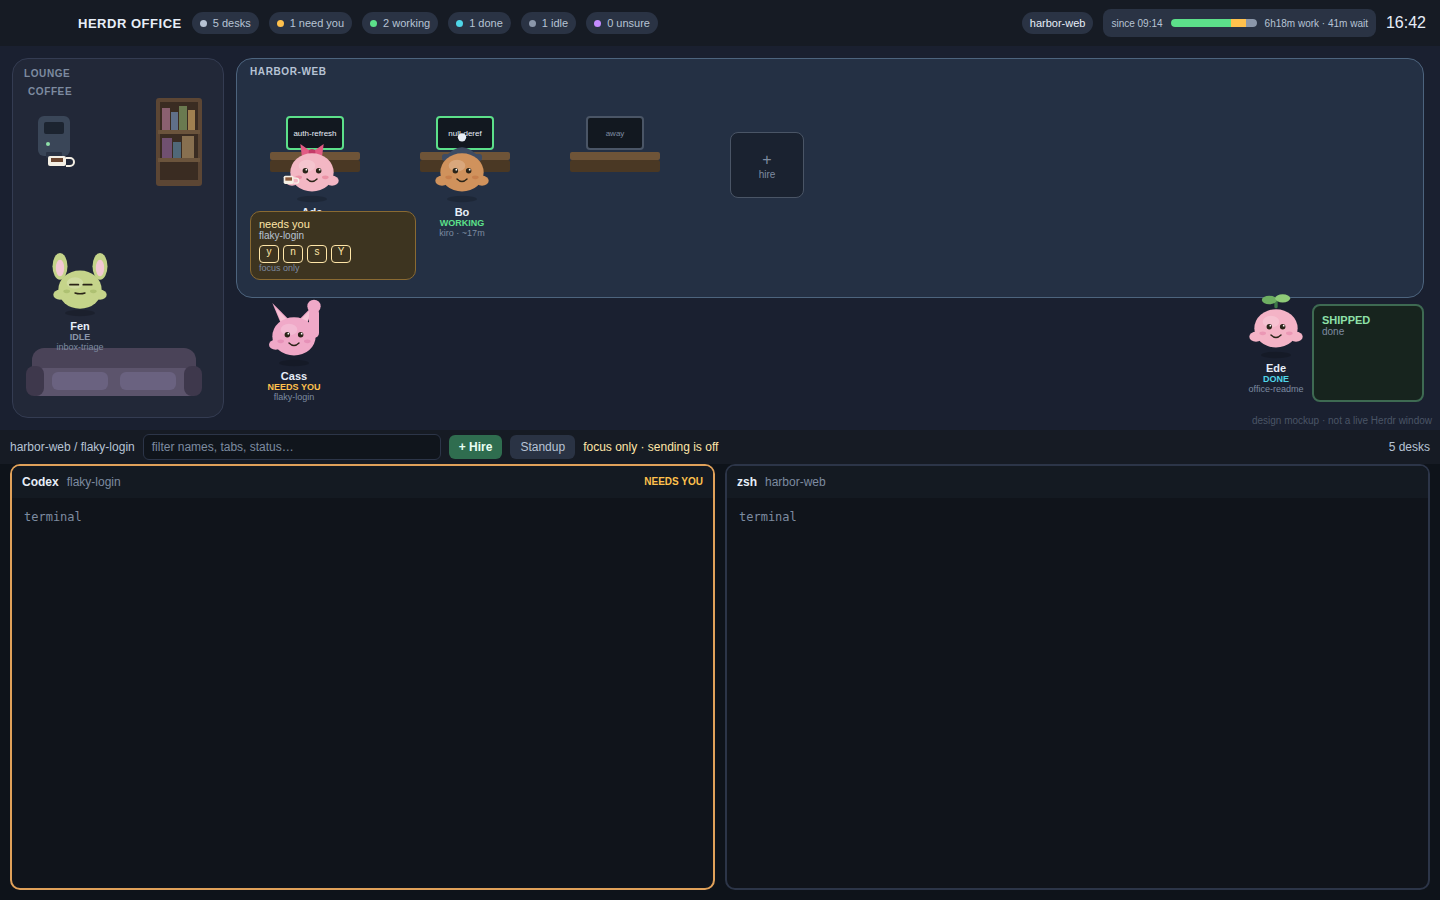
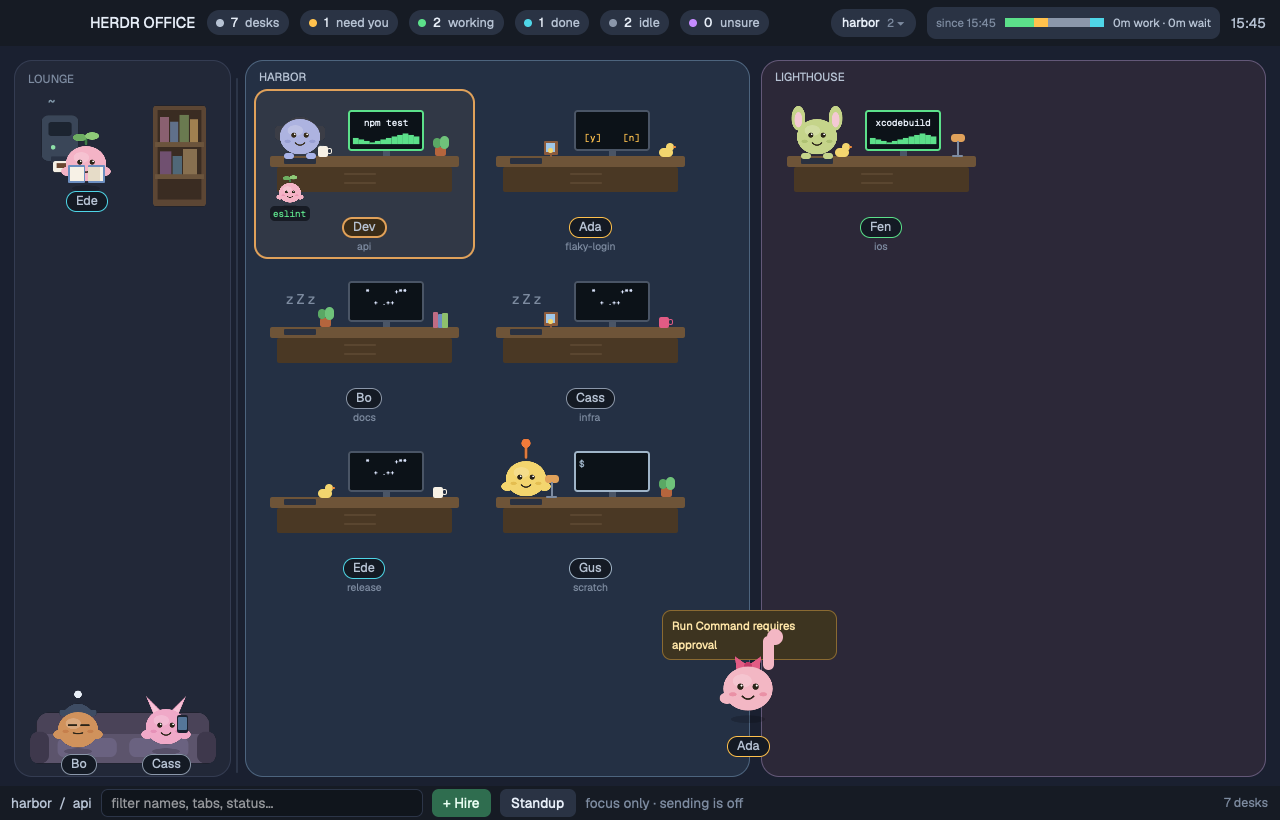
preview.png is a real (demo floor) screenshot, for herdr.dev/layouts (#4)

diff --git a/README.md b/README.md
@@ -10,7 +10,7 @@ This is a native GUI port of [Michael Landi's herdr-office](https://github.com/m
 
 ![An agent's card while it waits on an approval](docs/approval-card.png)
 
-Both screenshots are the [demo floor](#demo-floor): made-up agents, folders and questions, taken in a separate Herdr home so no real terminal is in them. `preview.png` is the original design mockup.
+Both screenshots are the [demo floor](#demo-floor): made-up agents, folders and questions, taken in a separate Herdr home so no real terminal is in them. `preview.png` (the image herdr.dev/layouts shows) is the same floor shot.
 
 Prefer the terminal? [herdr-office](https://github.com/michaellandi/herdr-office) is the original: the same office as a Herdr TUI plugin, drawn in a pane with `herdr plugin install michaellandi/herdr-office`.
 

diff --git a/RECIPE.md b/RECIPE.md
@@ -4,7 +4,7 @@ Your agents as blob people in one open-plan office, above the live tab. Working 
 
 ![Herdr Office](preview.png)
 
-This file is the brief: enough to build the office from an empty folder. The files next to it are one build of it, which has grown past the brief (helpers, lounge activities, the approval reader, the demo floor); the README describes that build. `preview.png` is a design mockup of that window, not a capture of a running Herdr.
+This file is the brief: enough to build the office from an empty folder. The files next to it are one build of it, which has grown past the brief (helpers, lounge activities, the approval reader, the demo floor); the README describes that build. `preview.png` is a capture of that window on the demo floor (made-up agents).
 
 ## What you see
 
